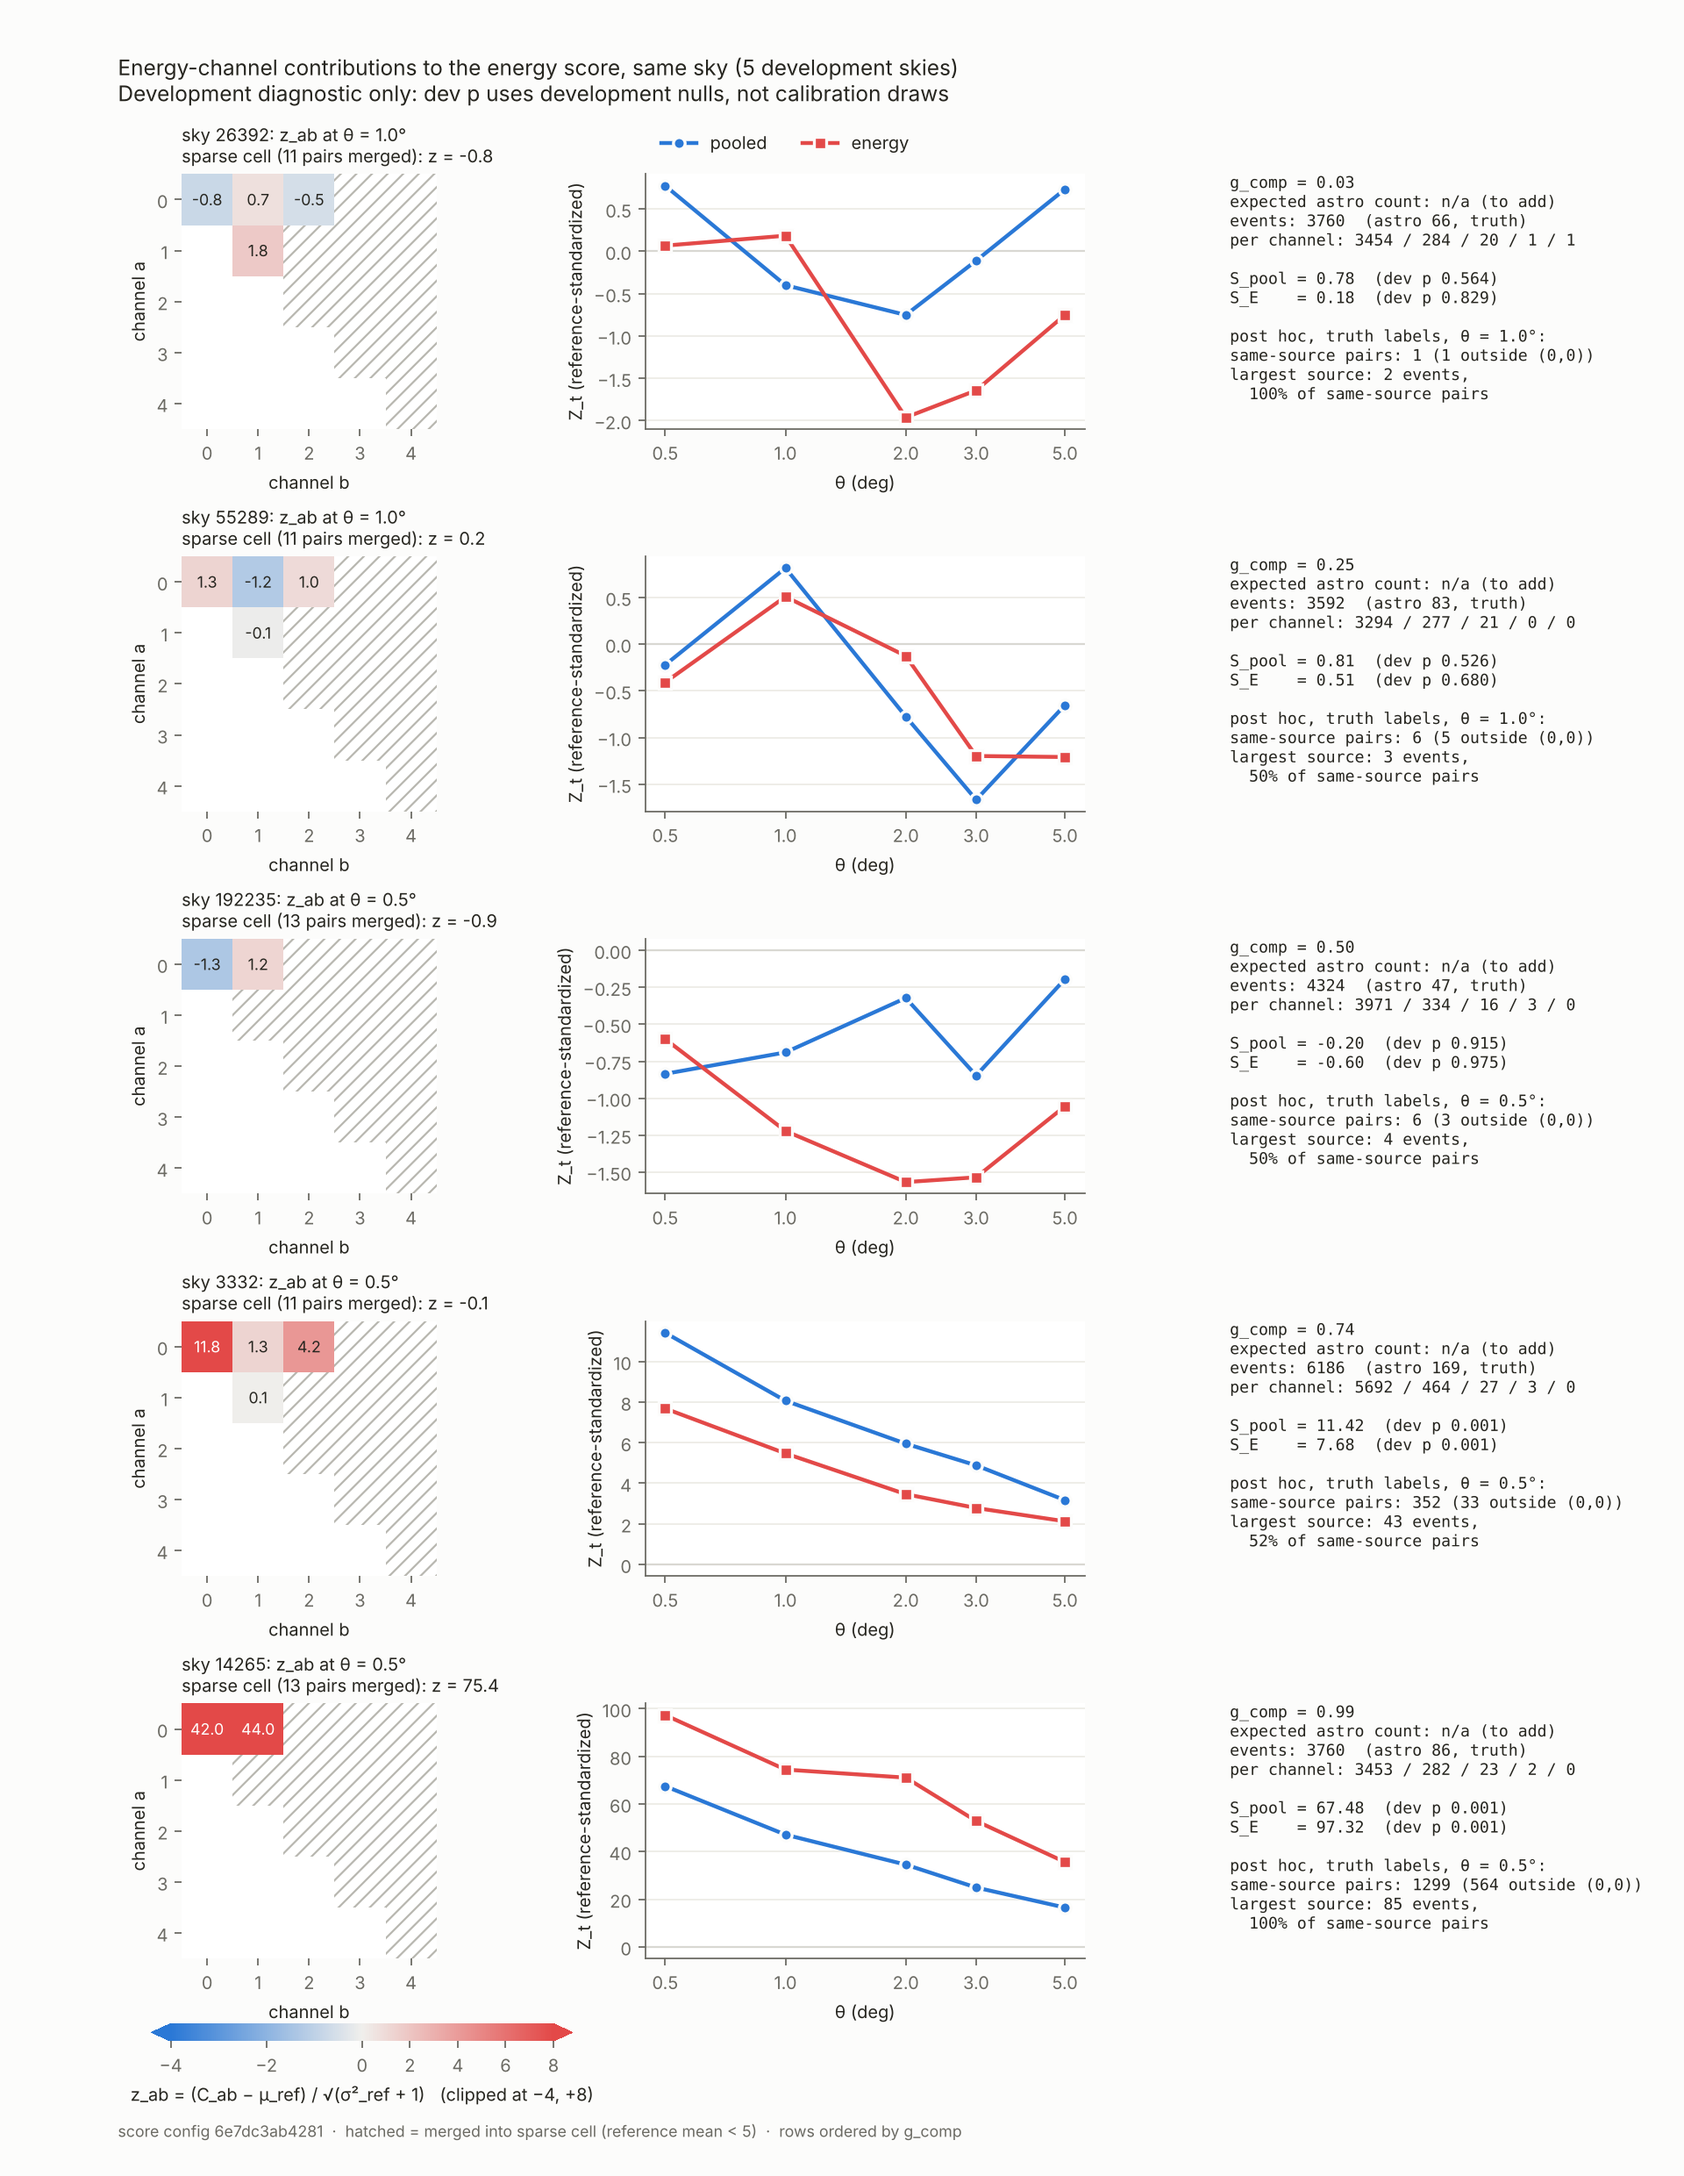
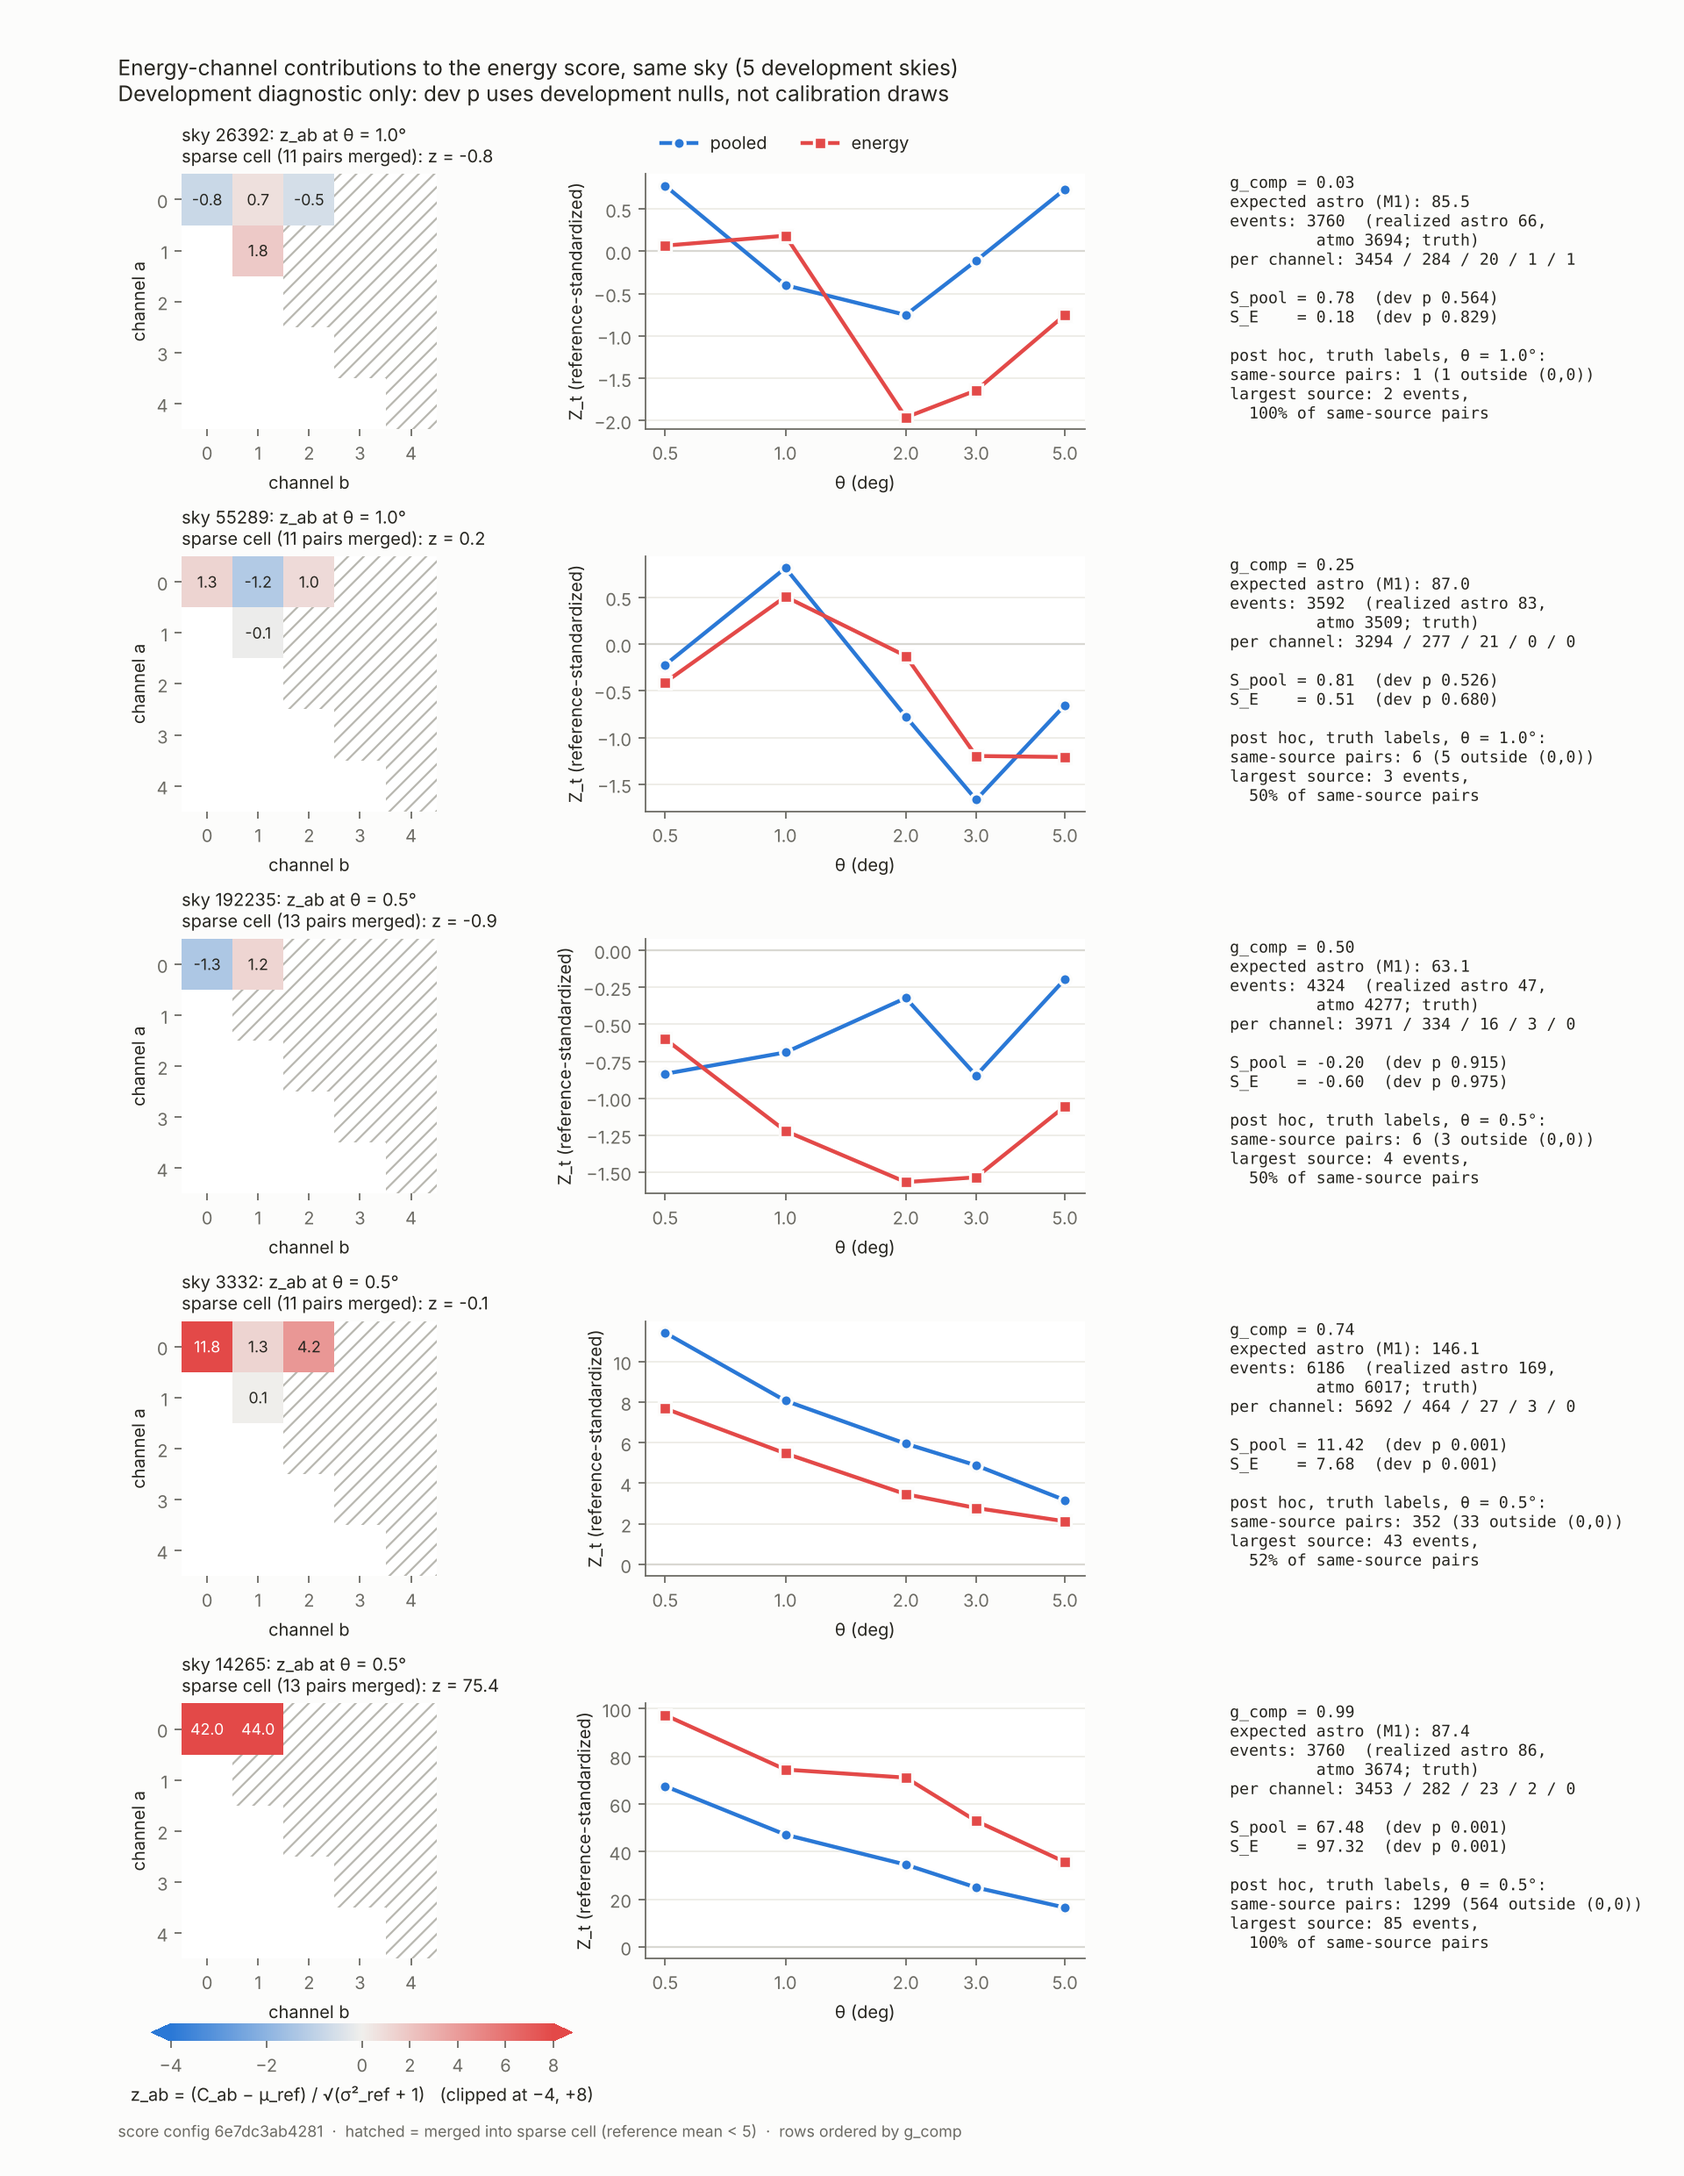
Figure + handoff: add M1 expected astro and realized astro/atmo counts from Nov 1 record
Claude-Session: https://claude.ai/code/session_019q75xMVTNhMtvaA754H3V1

diff --git a/code/make_contribution_figure.py b/code/make_contribution_figure.py
@@ -13,7 +13,7 @@ source_index / component are read ONLY here, after scoring, to annotate which
 same-source pairs make the excess. They never enter either score.
 
 Usage: python code/make_contribution_figure.py --out figures/channel_contributions_dev.png \
-          [--expected-astro expected_astro.json]   # {"26392": 63.2, ...} if available
+          --expected-astro results/expected_astro_M1.json
 """
 import argparse, json, sys
 from pathlib import Path
@@ -67,7 +67,7 @@ def main():
     gcomp = json.loads(Path("aaron_dev_extension_2026-10-31/splits/h1_dev_eval_split_2026-10-31.json")
                        .read_text())["development_g_comp"]
     dev = json.loads(Path("results/dev_scores.json").read_text())["skies"]
-    expected = json.loads(a.expected_astro.read_text()) if a.expected_astro else {}
+    expected = json.loads(a.expected_astro.read_text())["M1_expected_astro"] if a.expected_astro else {}
 
     plt.rcParams.update({"font.size": 9, "axes.edgecolor": MUTED, "axes.labelcolor": INK,
                          "xtick.color": MUTED, "ytick.color": MUTED, "text.color": INK})
@@ -125,11 +125,11 @@ def main():
         ph = posthoc_same_source(sid, d, theta)
         notes[sid] = ph
         nch = np.bincount(ch, minlength=5)
-        exp_s = f"{expected[sid]:.0f}" if sid in expected else "n/a (to add)"
+        exp_s = f"{expected[sid]:.1f}" if sid in expected else "n/a (to add)"
         r = dev[sid]
         txt = (f"g_comp = {gcomp[sid]:.2f}\n"
-               f"expected astro count: {exp_s}\n"
-               f"events: {dec.size}  (astro {ph['n_astro']}, truth)\n"
+               f"expected astro (M1): {exp_s}\n"
+               f"events: {dec.size}  (realized astro {ph['n_astro']},\n         atmo {dec.size - ph['n_astro']}; truth)\n"
                f"per channel: {' / '.join(str(x) for x in nch)}\n\n"
                f"S_pool = {r['pooled']['S_obs']:.2f}  (dev p {r['pooled']['dev_p']:.3f})\n"
                f"S_E    = {r['energy']['S_obs']:.2f}  (dev p {r['energy']['dev_p']:.3f})\n\n"

diff --git a/HANDOFF_scores_v1.md b/HANDOFF_scores_v1.md
@@ -42,20 +42,21 @@ which equal weighting dilutes, so pooled is higher. The price is that when the s
 weight on cells that do not respond. That is the trade-off Linh's independent evaluation should measure.
 
 ## 4. Development diagnostics (`results/dev_scores.json`, NOT calibrated)
-| sky | g_comp | S_pool (dev p) | S_E (dev p) |
-|---|---|---|---|
-| 26392 | 0.03 | 0.78 (0.564) | 0.18 (0.829) |
-| 55289 | 0.25 | 0.81 (0.526) | 0.51 (0.680) |
-| 192235 | 0.50 | -0.20 (0.915) | -0.60 (0.975) |
-| 3332 | 0.74 | 11.42 (0.001) | 7.68 (0.001) |
-| 14265 | 0.99 | 67.48 (0.001) | 97.32 (0.001) |
+| sky | g_comp | M1 expected astro | events (astro / atmo, realized) | S_pool (dev p) | S_E (dev p) |
+|---|---|---|---|---|---|
+| 26392 | 0.03 | 85.5 | 3760 (66 / 3694) | 0.78 (0.564) | 0.18 (0.829) |
+| 55289 | 0.25 | 87.0 | 3592 (83 / 3509) | 0.81 (0.526) | 0.51 (0.680) |
+| 192235 | 0.50 | 63.1 | 4324 (47 / 4277) | -0.20 (0.915) | -0.60 (0.975) |
+| 3332 | 0.74 | 146.1 | 6186 (169 / 6017) | 11.42 (0.001) | 7.68 (0.001) |
+| 14265 | 0.99 | 87.4 | 3760 (86 / 3674) | 67.48 (0.001) | 97.32 (0.001) |
 Dev nulls are development draws (26392/14265 share a seed). Null score distributions look alike across skies
 (mean 0.90-0.97, sd 0.82-0.90). No ties with the observed energy score. The dev skies are unmatched (astro counts and
-backgrounds differ); no sensitivity statement follows from them. Expected astrophysical counts per sky: to add from
-the Nov 1 record (`development_sky_results`); the figure uses realized truth counts until then.
+backgrounds differ); no sensitivity statement follows from them. M1 (expected astro) is from the Nov 1 record
+(`development_sky_results`), saved in `results/expected_astro_M1.json`; annotation only, never read by a score.
 
 ## 5. Figure
-`figures/channel_contributions_dev.png` (+ `.json` post-hoc truth notes). `source_index` used only after scoring.
+`figures/channel_contributions_dev.png` (+ `.json` post-hoc truth notes), made with
+`python code/make_contribution_figure.py --expected-astro results/expected_astro_M1.json`. `source_index` used only after scoring.
 
 ## 6. Frozen artifacts
 - `frozen/score_config.json` sha256 a96140b7866b07cc... (self-hash `config_sha256` 6e7dc3ab4281...)
